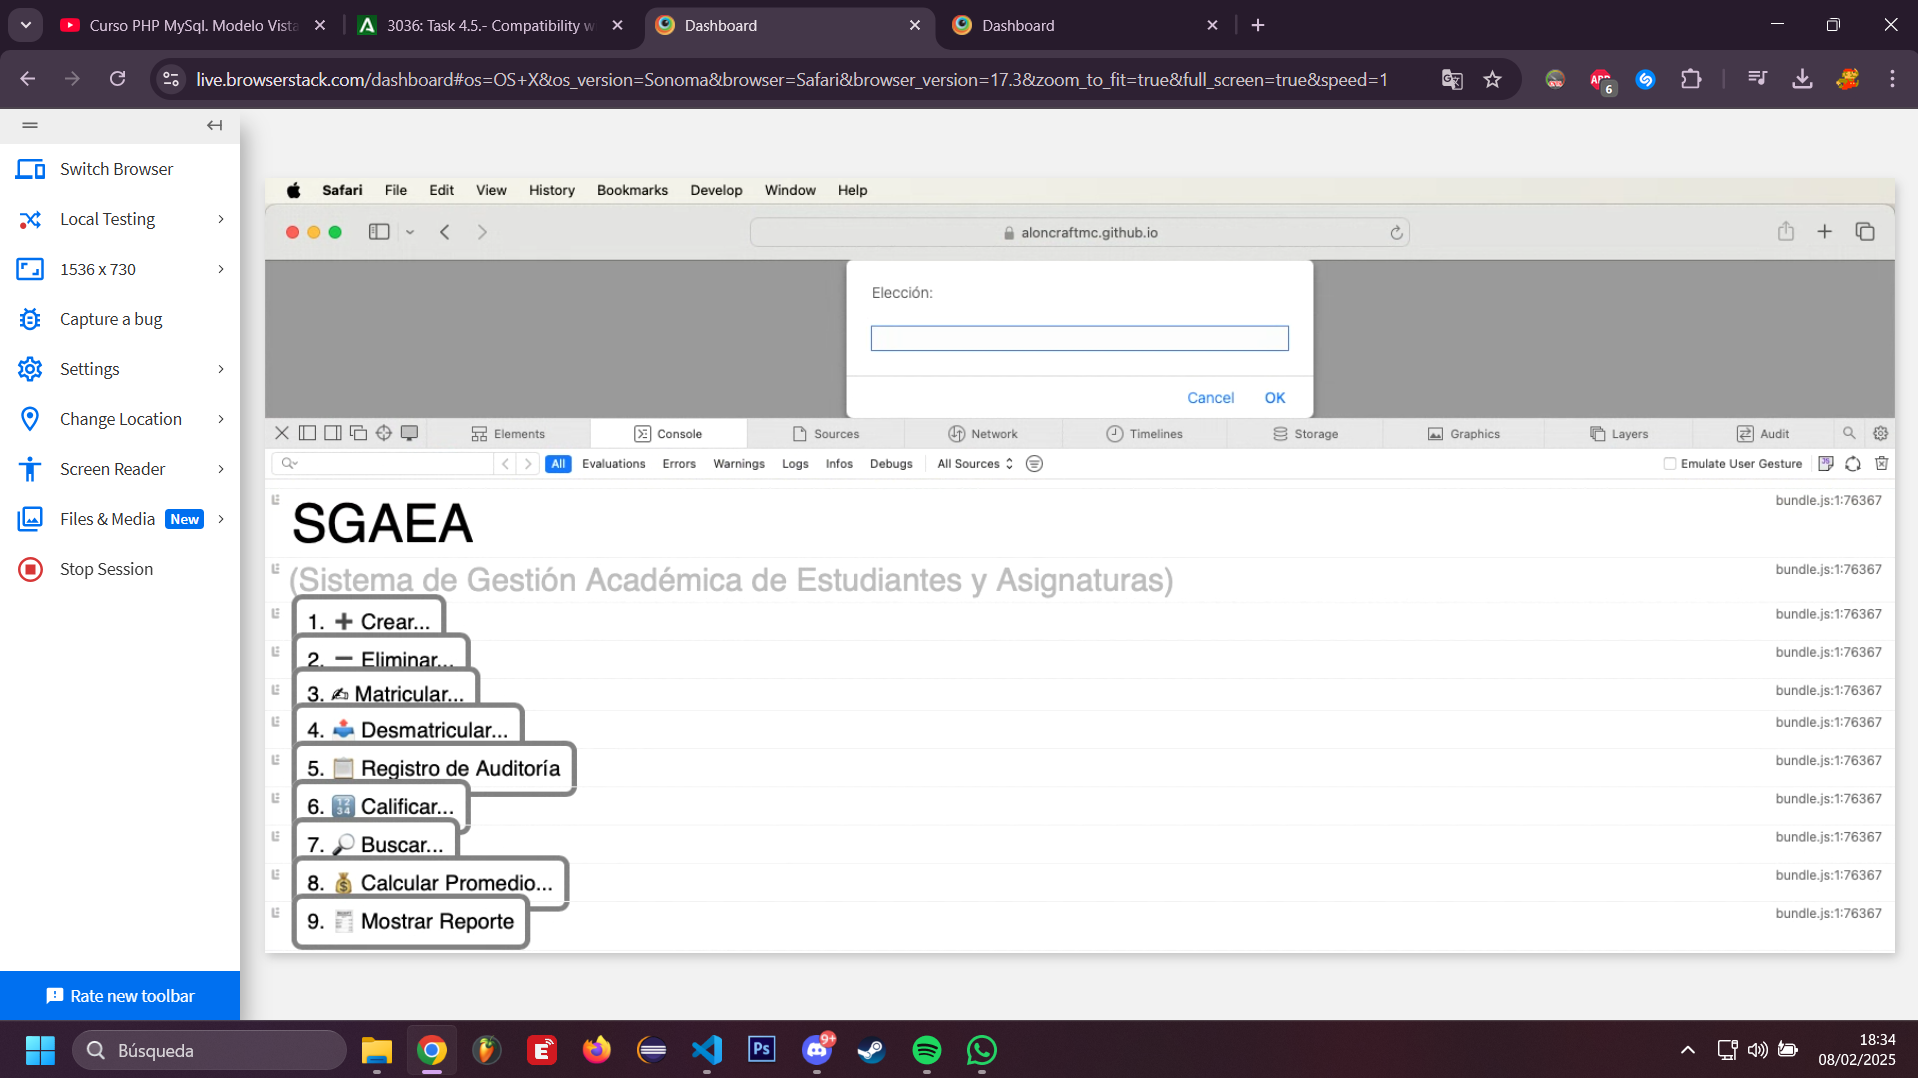
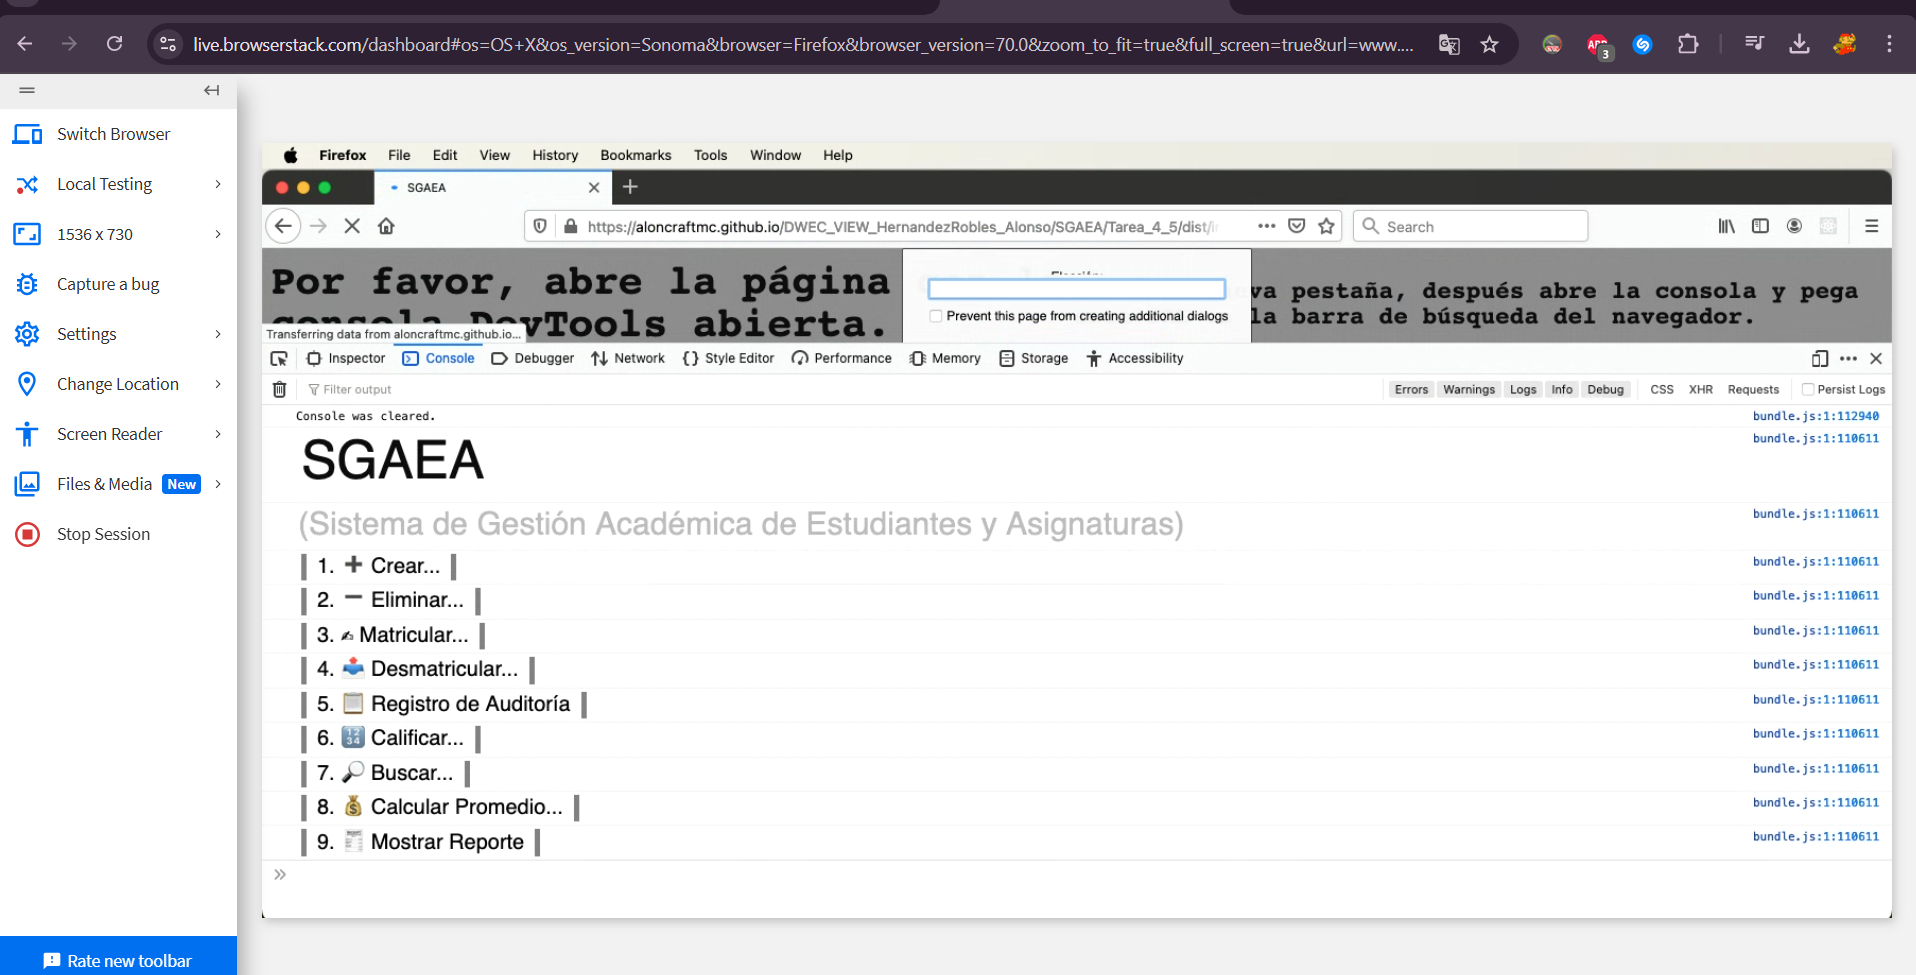
Tarea 4.5 Nueva Entrega

diff --git a/SGAEA/Tarea_4_5/README.md b/SGAEA/Tarea_4_5/README.md
@@ -114,4 +114,4 @@ Ahora probemos la aplicación alojada en el enlace recién mencionado en un nave
 
 Después, he elegido este navegador para probar mi código, y como se puede ver en la imagen, la [URL](https://aloncraftmc.github.io/DWEC_VIEW_HernandezRobles_Alonso/SGAEA/Tarea_4_5/dist/index.html) funciona perfectamente con el código en la consola:
 
-![alt text](image-1.png)
+![alt text](image.png)
